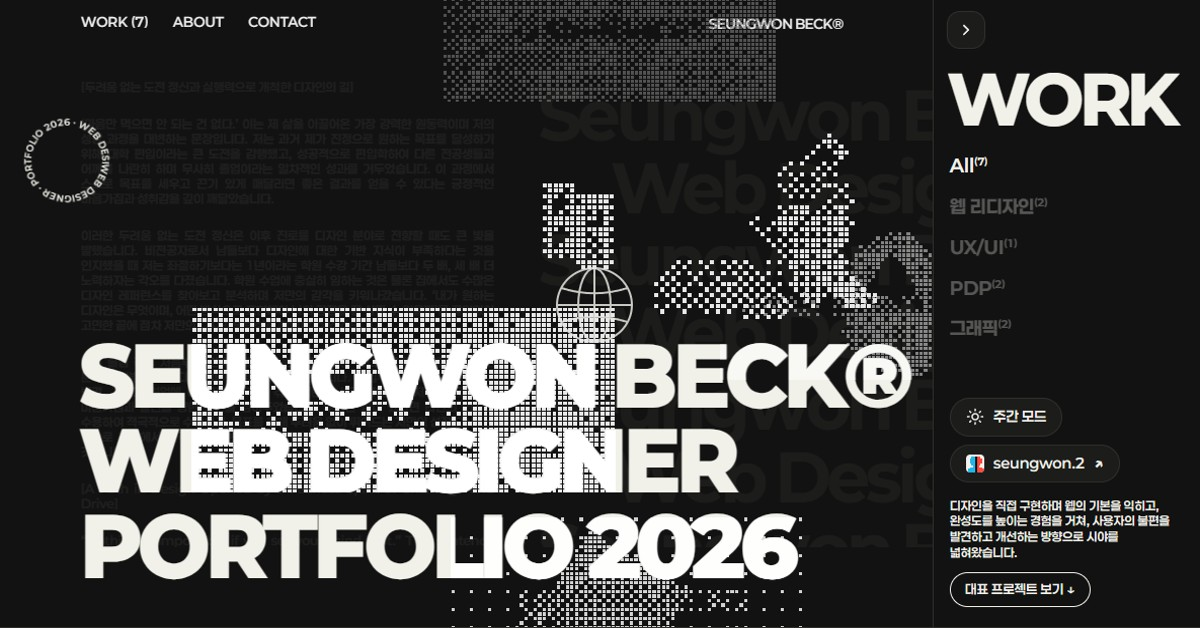
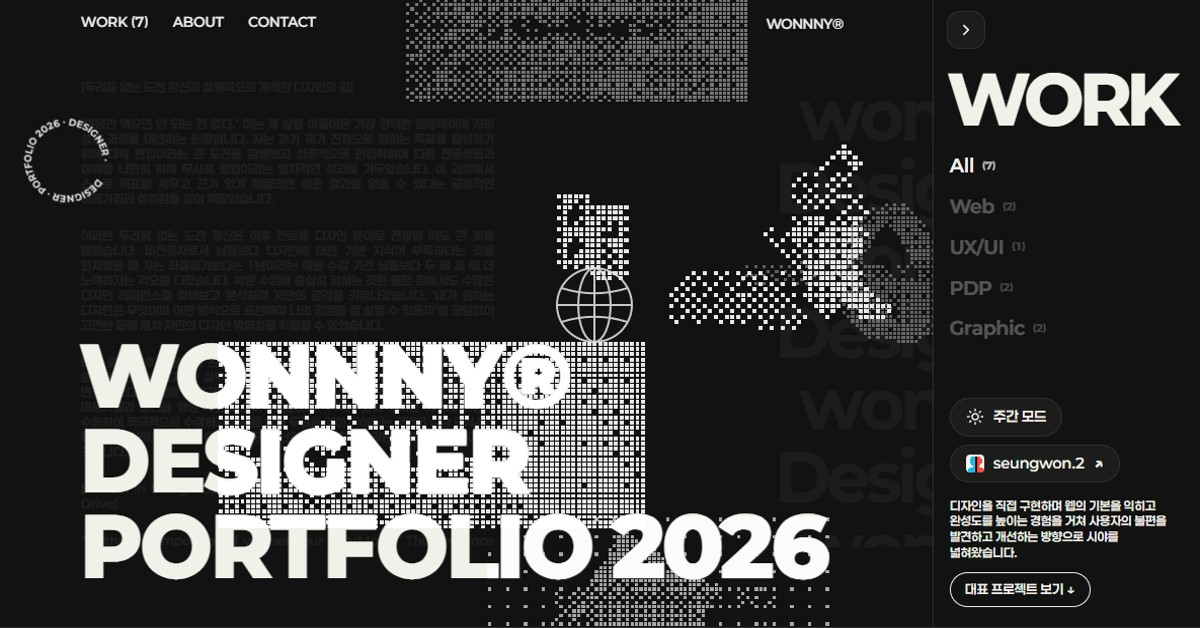
2026.10.27 작업

diff --git a/js/data.js b/js/data.js
@@ -2,13 +2,13 @@
 // "[작성]" 표시는 실제 내용으로 교체가 필요한 자리입니다. screens[].src 에 이미지 경로를 넣으면 placeholder 대신 표시됩니다.
 window.DATA = {
   profile: {
-    name: "Seungwon Beck",
+    name: "wonnny",
     nameKo: "백승원",
-    jobTitle: "Web Designer",
+    jobTitle: "Designer",
     headline: "화면을 만들며 시작해\n사용자를 이해하는 디자이너로 성장하고 있습니다.",
     intro: "디자인을 직접 구현하며 웹의 기본을 익히고 완성도를 높이는 경험을 거쳐 사용자의 불편을 발견하고 개선하는 방향으로 시야를 넓혀왔습니다.",
     closing: "직접 구현하며 가능성을 이해하고\n리서치하며 필요한 변화를 찾습니다.",
-    closingBody: "앞으로도 디자인과 구현에 대한 이해를 바탕으로 사용자의 경험을 살피고 선택의 이유를 설명할 수 있는 웹 디자이너로 성장하고자 합니다.",
+    closingBody: "앞으로도 디자인과 구현에 대한 이해를 바탕으로 사용자의 경험을 살피고 선택의 이유를 설명할 수 있는 디자이너로 성장하고자 합니다.",
     selfIntro: ["[두려움 없는 도전 정신과 실행력으로 개척한 디자인의 길]", "‘마음만 먹으면 안 되는 건 없다.’ 이는 제 삶을 이끌어온 가장 강력한 원동력이며 저의 성장 과정을 대변하는 문장입니다. 저는 과거 제가 진정으로 원하는 목표를 달성하기 위해 대학 편입이라는 큰 도전을 감행했고 성공적으로 편입학하여 다른 전공생들과 어깨를 나란히 하며 무사히 졸업이라는 일차적인 성과를 거두었습니다. 이 과정에서 스스로 목표를 세우고 끈기 있게 매달리면 좋은 결과를 얻을 수 있다는 긍정적인 마음가짐과 성취감을 깊이 깨달았습니다.", "이러한 두려움 없는 도전 정신은 이후 진로를 디자인 분야로 전향할 때도 큰 빛을 발했습니다. 비전공자로서 남들보다 디자인에 대한 기반 지식이 부족하다는 것을 인지했을 때 저는 좌절하기보다는 1년이라는 학원 수강 기간 남들보다 두 배 세 배 더 노력하자는 각오를 다졌습니다. 학원 수업에 충실히 임하는 것은 물론 집에서도 수많은 디자인 레퍼런스를 찾아보고 분석하며 저만의 감각을 키워나갔습니다. ‘내가 원하는 디자인은 무엇이며 어떤 방식으로 표현해야 나의 강점을 잘 살릴 수 있을까’를 끊임없이 고민한 끝에 점차 저만의 디자인 방향성을 확립할 수 있었습니다.", "비록 졸업 직후 처음부터 완벽하게 제가 원했던 직무는 아니었을지라도 결국 디자인 분야로 첫발을 내디디며 실무를 경험할 수 있었습니다. 편입부터 디자인으로의 진로 변경 그리고 취업에 이르기까지 제가 겪은 일련의 성공 경험들은 저에게 긍정적인 마음가짐과 발전을 향한 확신을 심어주었습니다. 부족한 점이 있다면 타인의 의견을 수용하여 적극적으로 수정하고 목표를 향해 두려움 없이 뛰어드는 저만의 성장 DNA는 앞으로 귀사에서 마주할 어떠한 업무적 난관도 극복할 수 있는 튼튼한 자양분이 될 것입니다."],
     selfIntroEn: ["[A Path in Design Opened by a Fearless Spirit of Challenge and Drive]", "“Nothing is impossible if you set your mind to it.” This sentence has been the strongest driving force in my life and speaks for how I have grown. To reach a goal I truly wanted I took on the big challenge of transferring universities succeeded in being admitted stood shoulder to shoulder with students of other majors and graduated safely as a first achievement. Through this process I came to feel deeply that setting my own goals and sticking with them leads to good results and I gained a positive mindset and a sense of accomplishment.", "That fearless spirit shone again when I changed my career path to design. When I realized that as a non-major I lacked the foundational knowledge others had I did not despair; I resolved to work two or three times harder than others during my one year at the academy. Besides attending classes faithfully I researched and analyzed countless design references at home to develop my own sense. After constantly asking myself “What kind of design do I want and how should I express it to bring out my strengths?” I gradually established my own design direction.", "Although my first job after graduation was not exactly the role I had wanted I still took my first step into design and gained hands-on experience. The series of successes I went through from transferring universities to changing my path to design and finding employment gave me a positive mindset and confidence in my growth. Where I fall short I accept others’ opinions and revise actively and my growth DNA of diving toward goals without fear will be a solid source of strength to overcome any difficulty at your company."],
     skills: [

diff --git a/index.html b/index.html
@@ -3,20 +3,20 @@
 <head>
 <meta charset="utf-8">
 <meta name="viewport" content="width=device-width,initial-scale=1">
-<title>Seungwon Beck — Web Designer Portfolio</title>
-<meta name="description" content="브랜드의 개성을 시각적으로 표현하고 디자인의 판단 과정을 함께 보여주는 신입 웹 디자이너 백승원의 포트폴리오.">
+<title>wonnny — Designer Portfolio</title>
+<meta name="description" content="브랜드의 개성을 시각적으로 표현하고 디자인의 판단 과정을 함께 보여주는 신입 디자이너 백승원의 포트폴리오.">
 <meta name="theme-color" content="#F7F7F2">
 <meta property="og:type" content="website">
 <meta property="og:locale" content="ko_KR">
-<meta property="og:site_name" content="Seungwon Beck">
-<meta property="og:title" content="Seungwon Beck — Web Designer Portfolio">
+<meta property="og:site_name" content="wonnny">
+<meta property="og:title" content="wonnny — Designer Portfolio">
 <meta property="og:description" content="화면을 만들며 시작해 사용자를 이해하는 디자이너로 성장하고 있습니다.">
 <meta property="og:url" content="https://seungwonbeck.github.io/wonnny/">
 <meta property="og:image" content="https://seungwonbeck.github.io/wonnny/assets/og.jpg">
 <meta property="og:image:width" content="1200">
 <meta property="og:image:height" content="628">
 <meta name="twitter:card" content="summary_large_image">
-<meta name="twitter:title" content="Seungwon Beck — Web Designer Portfolio">
+<meta name="twitter:title" content="wonnny — Designer Portfolio">
 <meta name="twitter:description" content="화면을 만들며 시작해 사용자를 이해하는 디자이너로 성장하고 있습니다.">
 <meta name="twitter:image" content="https://seungwonbeck.github.io/wonnny/assets/og.jpg">
 <link rel="icon" href="assets/favicon.svg" type="image/svg+xml">
@@ -28,7 +28,7 @@
 <body data-page="home">
 <header class="hd"><div class="wrap">
   <nav class="nav" aria-label="메인 메뉴"><a href="#work">Work (7)</a><a href="about.html">About</a><a href="about.html#contact">Contact</a></nav>
-  <a class="logo" href="index.html">Seungwon Beck®</a>
+  <a class="logo" href="index.html">wonnny®</a>
   <button class="burger" id="burger" aria-label="메뉴 열기" aria-expanded="false" aria-controls="panel"><i></i><i></i></button>
 </div></header>
 
@@ -38,9 +38,9 @@
     <div class="ghost" id="ghost" aria-hidden="true"></div>
     <svg class="star" viewBox="0 0 100 100" fill="none" stroke="currentColor" stroke-width="2.4" stroke-linecap="round" aria-hidden="true"><circle cx="50" cy="50" r="44"/><ellipse cx="50" cy="50" rx="19" ry="44"/><path d="M50 6v88M6 50h88M12 30q38 12 76 0M12 70q38-12 76 0"/></svg>
     <div id="tiles"></div>
-    <svg class="spin" viewBox="0 0 120 120" aria-hidden="true"><defs><path id="c" d="M60 60 m-44 0 a44 44 0 1 1 88 0 a44 44 0 1 1 -88 0"/></defs><text><textPath href="#c">WEB DESIGNER · PORTFOLIO 2026 · WEB DESIGNER ·</textPath></text></svg>
+    <svg class="spin" viewBox="0 0 120 120" aria-hidden="true"><defs><path id="c" d="M60 60 m-44 0 a44 44 0 1 1 88 0 a44 44 0 1 1 -88 0"/></defs><text><textPath href="#c">DESIGNER · PORTFOLIO 2026 · DESIGNER ·</textPath></text></svg>
     <h1 class="h1c" id="hero-h1"></h1>
-    <p class="big" aria-hidden="true" data-lines="SEUNGWON BECK®|WEB DESIGNER|PORTFOLIO 2026">SEUNGWON BECK®<br>WEB DESIGNER<br>PORTFOLIO 2026</p>
+    <p class="big" aria-hidden="true" data-lines="WONNNY®|DESIGNER|PORTFOLIO 2026">WONNNY®<br>DESIGNER<br>PORTFOLIO 2026</p>
     <button class="popen" id="popen" aria-label="메뉴 패널 열기"><svg viewBox="0 0 24 24" width="18" height="18" fill="none" stroke="currentColor" stroke-width="2.2" stroke-linecap="round" stroke-linejoin="round" aria-hidden="true"><path d="M15 6l-6 6 6 6"/></svg></button>
     <aside class="panel" id="panel">
       <button class="pclose" id="pclose" aria-label="메뉴 패널 숨기기"><svg viewBox="0 0 24 24" width="18" height="18" fill="none" stroke="currentColor" stroke-width="2.2" stroke-linecap="round" stroke-linejoin="round" aria-hidden="true"><path d="M9 6l6 6-6 6"/></svg></button>
@@ -83,7 +83,7 @@
     <button class="btn blue" data-email>이메일 주소 복사</button>
     <span data-links style="display:contents"></span>
   </div>
-  <small>© 2026 Seungwon Beck. 프로젝트 이미지의 저작권은 각 브랜드에 있으며 학습·포트폴리오 목적으로만 사용됩니다.</small>
+  <small>© 2026 wonnny. 프로젝트 이미지의 저작권은 각 브랜드에 있으며 학습·포트폴리오 목적으로만 사용됩니다.</small>
 </div></footer>
 
 <dialog aria-label="이미지 확대"></dialog>

diff --git a/about.html b/about.html
@@ -3,19 +3,19 @@
 <head>
 <meta charset="utf-8">
 <meta name="viewport" content="width=device-width,initial-scale=1">
-<title>About — Seungwon Beck</title>
+<title>About — wonnny</title>
 <meta name="theme-color" content="#F7F7F2">
 <meta property="og:type" content="website">
 <meta property="og:locale" content="ko_KR">
-<meta property="og:site_name" content="Seungwon Beck">
-<meta property="og:title" content="Seungwon Beck — Web Designer Portfolio">
+<meta property="og:site_name" content="wonnny">
+<meta property="og:title" content="wonnny — Designer Portfolio">
 <meta property="og:description" content="화면을 만들며 시작해 사용자를 이해하는 디자이너로 성장하고 있습니다.">
 <meta property="og:url" content="https://seungwonbeck.github.io/wonnny/">
 <meta property="og:image" content="https://seungwonbeck.github.io/wonnny/assets/og.jpg">
 <meta property="og:image:width" content="1200">
 <meta property="og:image:height" content="628">
 <meta name="twitter:card" content="summary_large_image">
-<meta name="twitter:title" content="Seungwon Beck — Web Designer Portfolio">
+<meta name="twitter:title" content="wonnny — Designer Portfolio">
 <meta name="twitter:description" content="화면을 만들며 시작해 사용자를 이해하는 디자이너로 성장하고 있습니다.">
 <meta name="twitter:image" content="https://seungwonbeck.github.io/wonnny/assets/og.jpg">
 <link rel="icon" href="assets/favicon.svg" type="image/svg+xml">
@@ -26,7 +26,7 @@
 </head>
 <body data-page="about">
 <header class="hd"><div class="wrap">
-  <a class="logo" href="index.html">Seungwon Beck</a>
+  <a class="logo" href="index.html">wonnny</a>
   <nav class="nav" aria-label="메인 메뉴"><a href="index.html#work">Work</a><a href="about.html" aria-current="page">About</a><a href="#contact">Contact</a></nav>
 </div></header>
 <main id="app"></main>
@@ -37,7 +37,7 @@
     <button class="btn blue" data-email>이메일 주소 복사</button>
     <span data-links style="display:contents"></span>
   </div>
-  <small>© 2026 Seungwon Beck. 프로젝트 이미지의 저작권은 각 브랜드에 있으며 학습·포트폴리오 목적으로만 사용됩니다.</small>
+  <small>© 2026 wonnny. 프로젝트 이미지의 저작권은 각 브랜드에 있으며 학습·포트폴리오 목적으로만 사용됩니다.</small>
 </div></footer>
 <dialog aria-label="이미지 확대"></dialog>
 <button class="top" aria-label="맨 위로">↑</button>

diff --git a/project.html b/project.html
@@ -3,19 +3,19 @@
 <head>
 <meta charset="utf-8">
 <meta name="viewport" content="width=device-width,initial-scale=1">
-<title>Project — Seungwon Beck</title>
+<title>Project — wonnny</title>
 <meta name="theme-color" content="#F7F7F2">
 <meta property="og:type" content="website">
 <meta property="og:locale" content="ko_KR">
-<meta property="og:site_name" content="Seungwon Beck">
-<meta property="og:title" content="Seungwon Beck — Web Designer Portfolio">
+<meta property="og:site_name" content="wonnny">
+<meta property="og:title" content="wonnny — Designer Portfolio">
 <meta property="og:description" content="화면을 만들며 시작해 사용자를 이해하는 디자이너로 성장하고 있습니다.">
 <meta property="og:url" content="https://seungwonbeck.github.io/wonnny/">
 <meta property="og:image" content="https://seungwonbeck.github.io/wonnny/assets/og.jpg">
 <meta property="og:image:width" content="1200">
 <meta property="og:image:height" content="628">
 <meta name="twitter:card" content="summary_large_image">
-<meta name="twitter:title" content="Seungwon Beck — Web Designer Portfolio">
+<meta name="twitter:title" content="wonnny — Designer Portfolio">
 <meta name="twitter:description" content="화면을 만들며 시작해 사용자를 이해하는 디자이너로 성장하고 있습니다.">
 <meta name="twitter:image" content="https://seungwonbeck.github.io/wonnny/assets/og.jpg">
 <link rel="icon" href="assets/favicon.svg" type="image/svg+xml">
@@ -26,7 +26,7 @@
 </head>
 <body data-page="project">
 <header class="hd"><div class="wrap">
-  <a class="logo" href="index.html">Seungwon Beck</a>
+  <a class="logo" href="index.html">wonnny</a>
   <nav class="nav" aria-label="메인 메뉴"><a href="index.html#work">Work</a><a href="about.html">About</a><a href="about.html#contact">Contact</a></nav>
 </div></header>
 <main id="app"></main>
@@ -37,7 +37,7 @@
     <button class="btn blue" data-email>이메일 주소 복사</button>
     <span data-links style="display:contents"></span>
   </div>
-  <small>© 2026 Seungwon Beck. 프로젝트 이미지의 저작권은 각 브랜드에 있으며 학습·포트폴리오 목적으로만 사용됩니다.</small>
+  <small>© 2026 wonnny. 프로젝트 이미지의 저작권은 각 브랜드에 있으며 학습·포트폴리오 목적으로만 사용됩니다.</small>
 </div></footer>
 <dialog aria-label="이미지 확대"></dialog>
 <button class="top" aria-label="맨 위로">↑</button>

diff --git a/js/about.js b/js/about.js
@@ -1,8 +1,8 @@
 // 기존 seungwon.2 사이트(Portfolio2.0)의 About·Skills 내용을 이 사이트에 맞게 정리
 window.ABOUT = {
- "name": "Seungwon Beck",
- "role": "Web Designer",
- "intro": "화면 너머의 경험을 만드는 웹 디자이너입니다. 작은 인터랙션 하나에도 이유를 담고 만든 것은 끝까지 구현해 보는 사람입니다.",
+ "name": "wonnny",
+ "role": "Designer",
+ "intro": "화면 너머의 경험을 만드는 디자이너입니다. 작은 인터랙션 하나에도 이유를 담고 만든 것은 끝까지 구현해 보는 사람입니다.",
  "statement": [
   "화면을 만들며 시작해 사용자를 이해하는 디자이너로 성장하고 있습니다.",
   "직접 구현하며 가능성을 이해하고 리서치하며 필요한 변화를 찾습니다."

diff --git a/js/app.js b/js/app.js
@@ -142,7 +142,7 @@ function pixelate(img, cv) {
 }
 
 function heroCollage() {
-  $("#ghost").innerHTML = `<span>Seungwon Beck® Web Designer® </span>`.repeat(40);
+  $("#ghost").innerHTML = `<span>wonnny® Designer® </span>`.repeat(40);
   $("#lp").innerHTML = [...P.selfIntro, ...P.selfIntroEn].map(t => `<p>${t}</p>`).join("").repeat(2);
   const shots = [...sorted.map(p => ({ src: p.thumbnail, alt: p.title, slug: p.slug, banner: true }))];
   // 구(球) 위에 타일을 고르게 배치(피보나치 격자). 드래그하면 구가 회전한다.

diff --git a/css/style.css b/css/style.css
@@ -554,3 +554,6 @@ html[data-theme=dark] .pill .i-sun{display:inline}
 .ab-top{align-items:center}
 .ab-top .p-acts{margin-bottom:0;align-items:center}
 .ab-top .eyebrow{display:flex;align-items:center;font-size:15px}
+
+/* 메인 제목 자간 */
+.big,.t .tc{letter-spacing:.01em}
